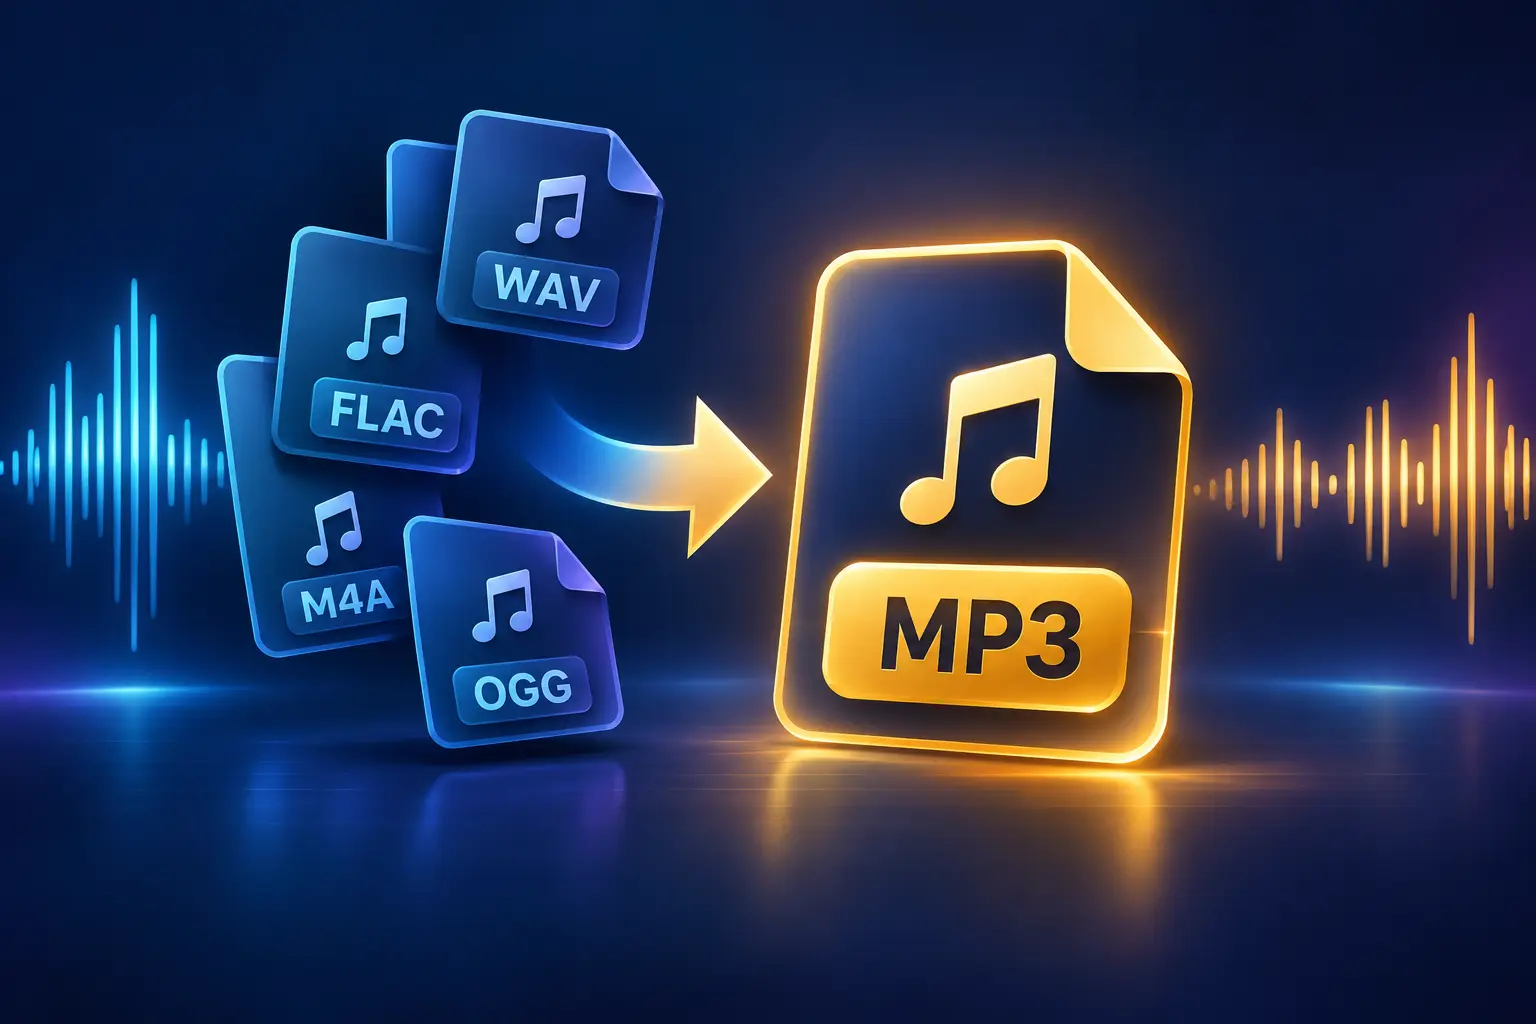
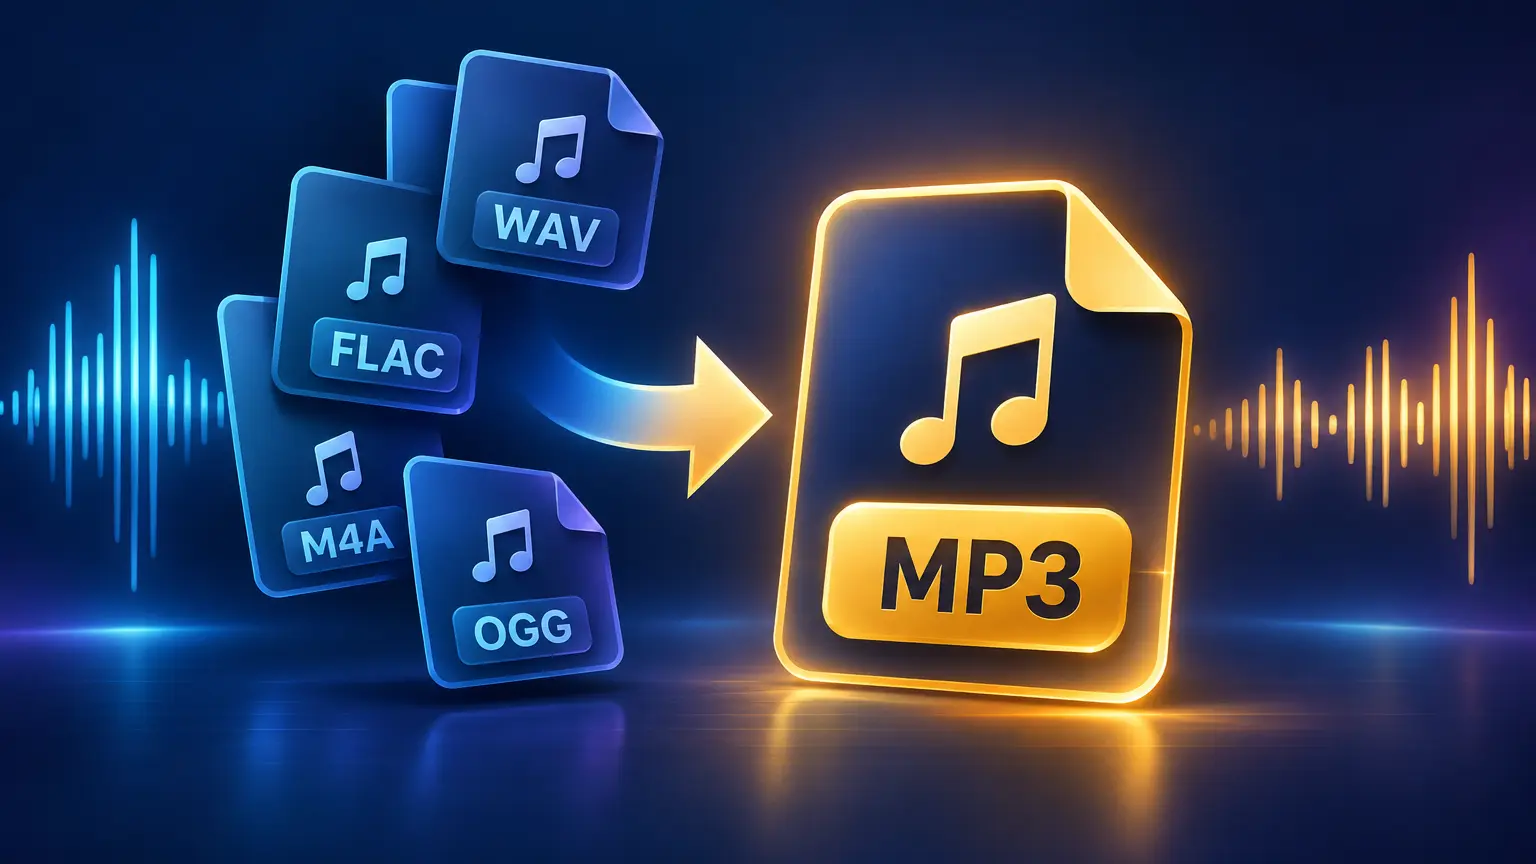
Hero-Bild auf 16:9 zugeschnitten
- Original 1536x1024 auf 1536x864 (oben 60 px, unten 100 px Spiegelung weg)
- WebP 768/1536 neu erzeugt, width/height und aspect-ratio 16 / 9

Claude-Session: https://claude.ai/code/session_01Wb2bbu2eNE4QpozTuJfRh7

diff --git a/src/components/layout/HeroSection.vue b/src/components/layout/HeroSection.vue
@@ -32,14 +32,14 @@
         </div>
       </div>
 
-      <!-- Bild der Landingpage: WAV, FLAC, M4A und OGG werden zu MP3 (WebP in zwei Breiten) -->
+      <!-- Bild der Landingpage im Format 16:9: WAV, FLAC, M4A und OGG werden zu MP3 (WebP in zwei Breiten) -->
       <figure class="hero-media">
         <img
           :src="heroImage1536"
           :srcset="`${heroImage768} 768w, ${heroImage1536} 1536w`"
           sizes="(min-width: 1024px) 560px, calc(100vw - 32px)"
           width="1536"
-          height="1024"
+          height="864"
           :alt="$t('hero.imageAlt')"
           fetchpriority="high"
           decoding="async"

diff --git a/src/assets/styles/main.scss b/src/assets/styles/main.scss
@@ -2591,7 +2591,7 @@ body .landing-page .hero-media img {
   display: block;
   width: 100%;
   height: auto;
-  aspect-ratio: 1536 / 1024;
+  aspect-ratio: 16 / 9;
 }
 
 /* --- Sektionen: abwechselnd Panel- und Seitenfläche ------------------------ */
